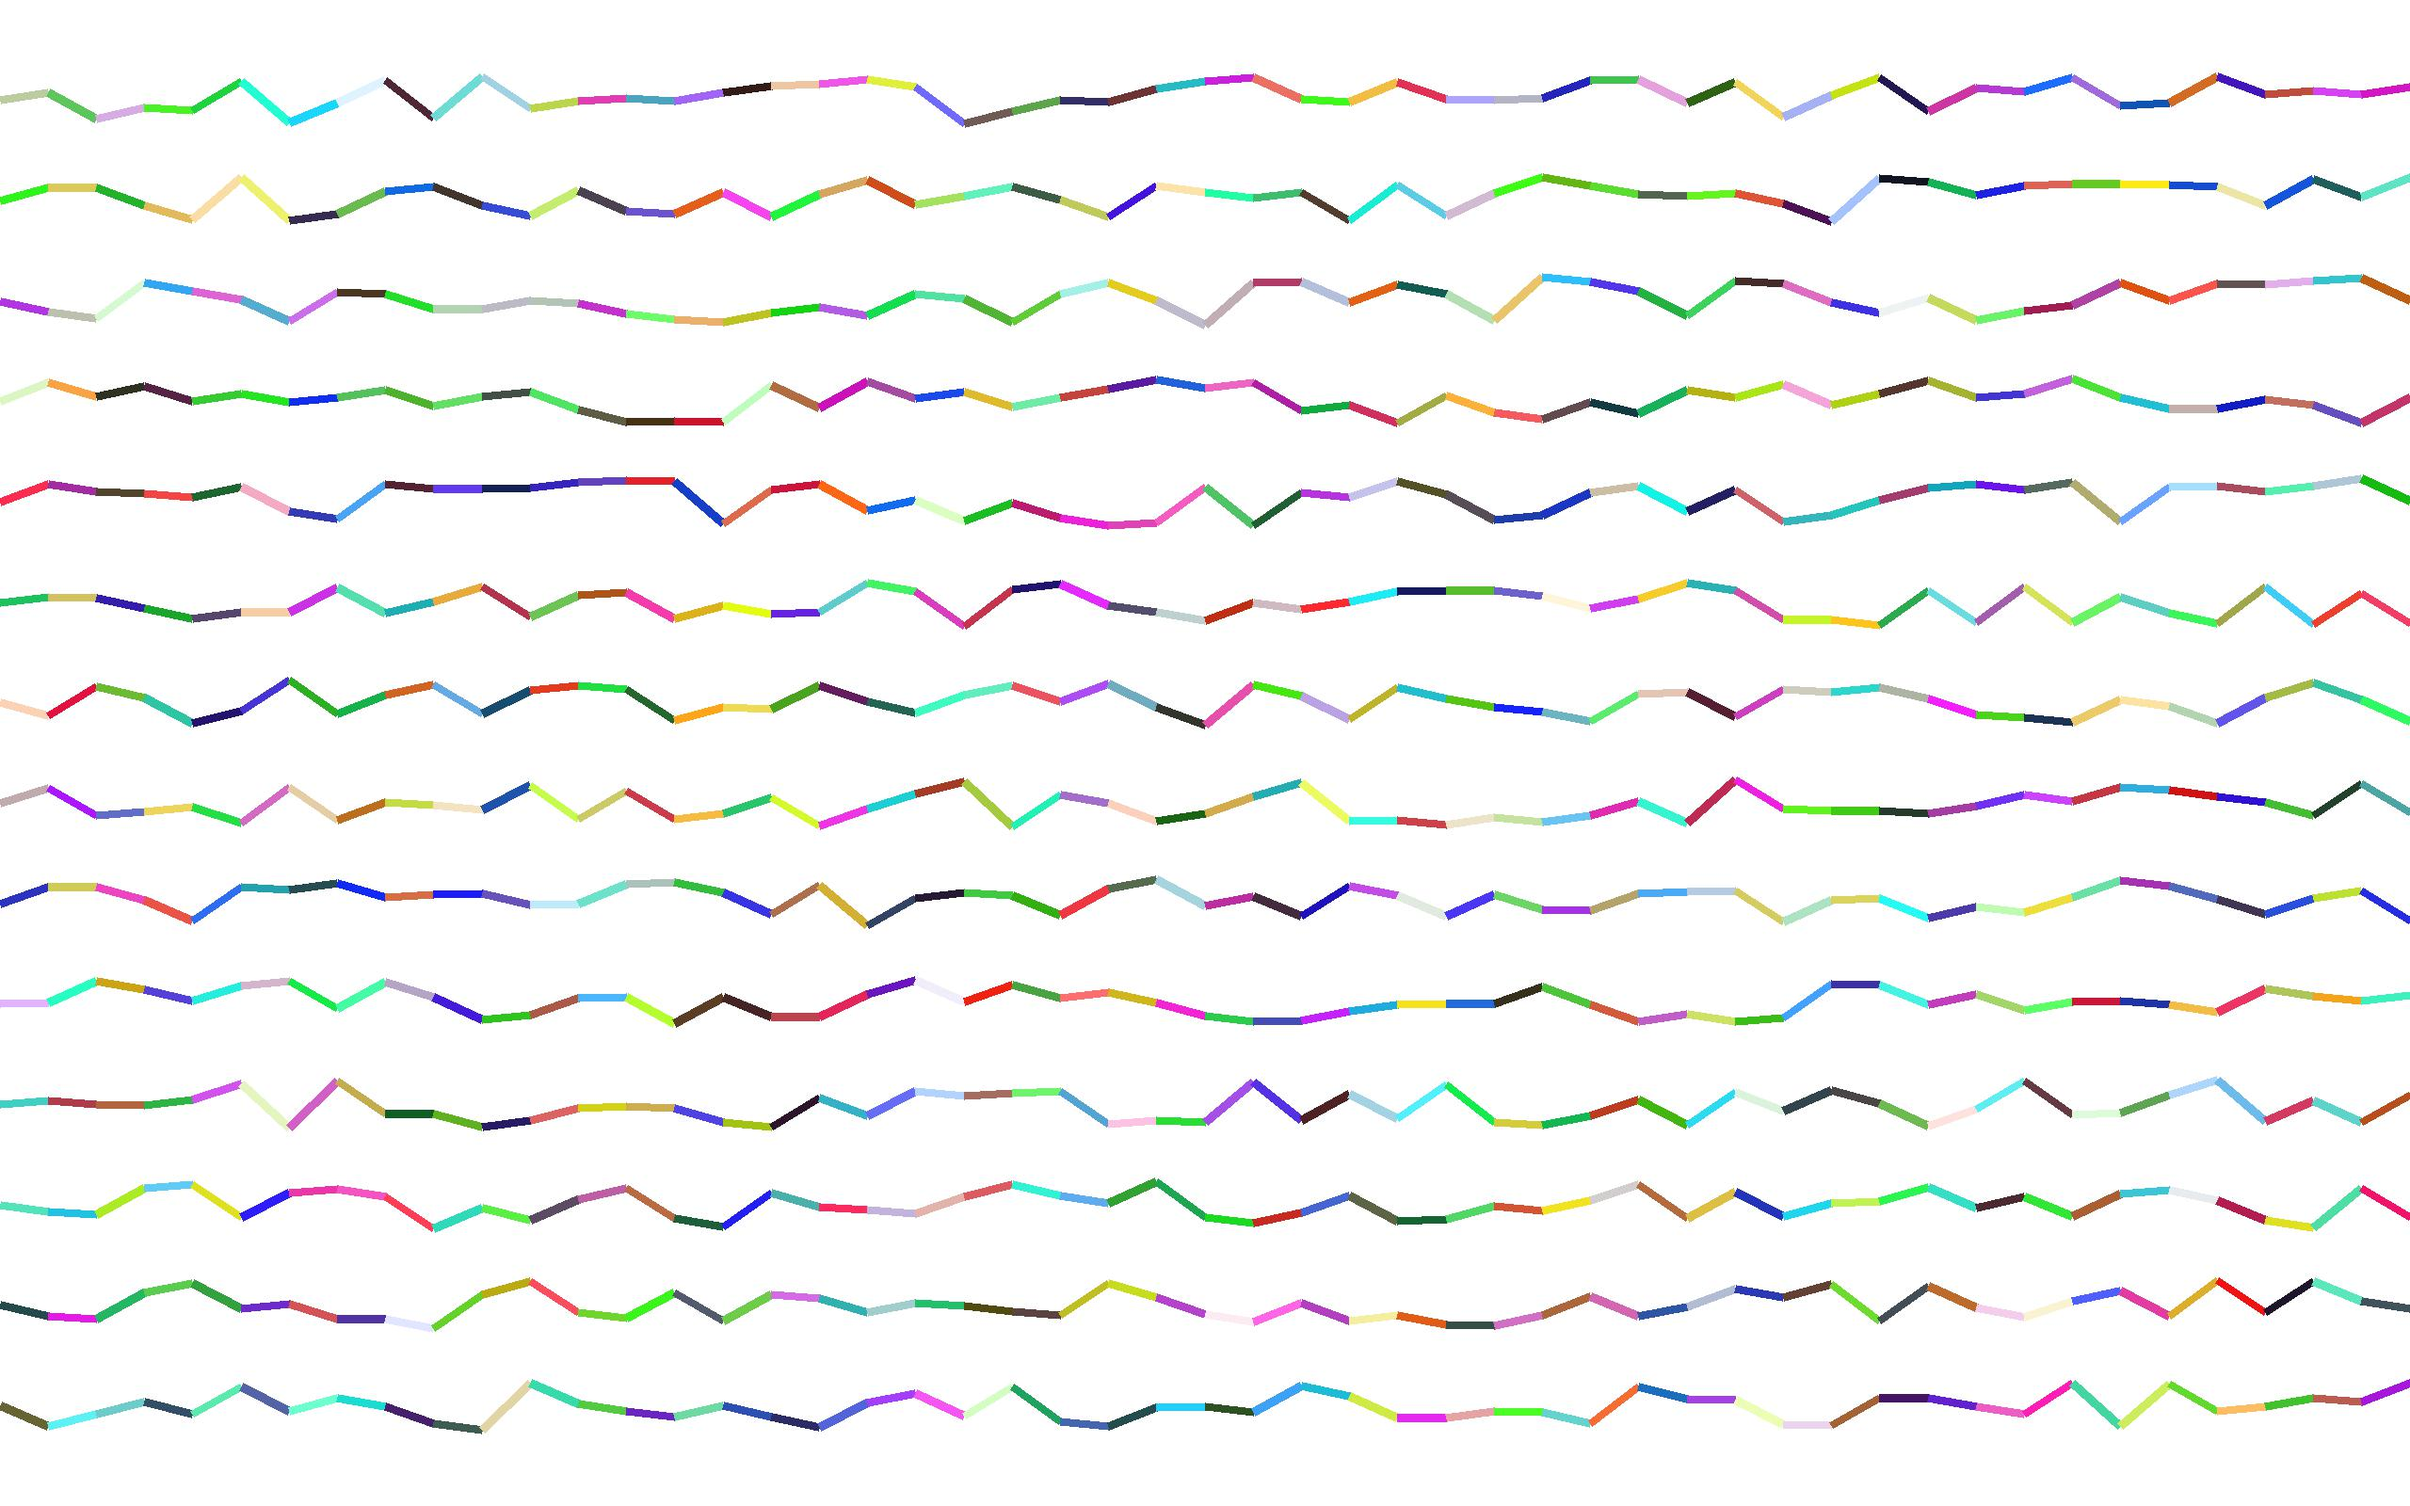
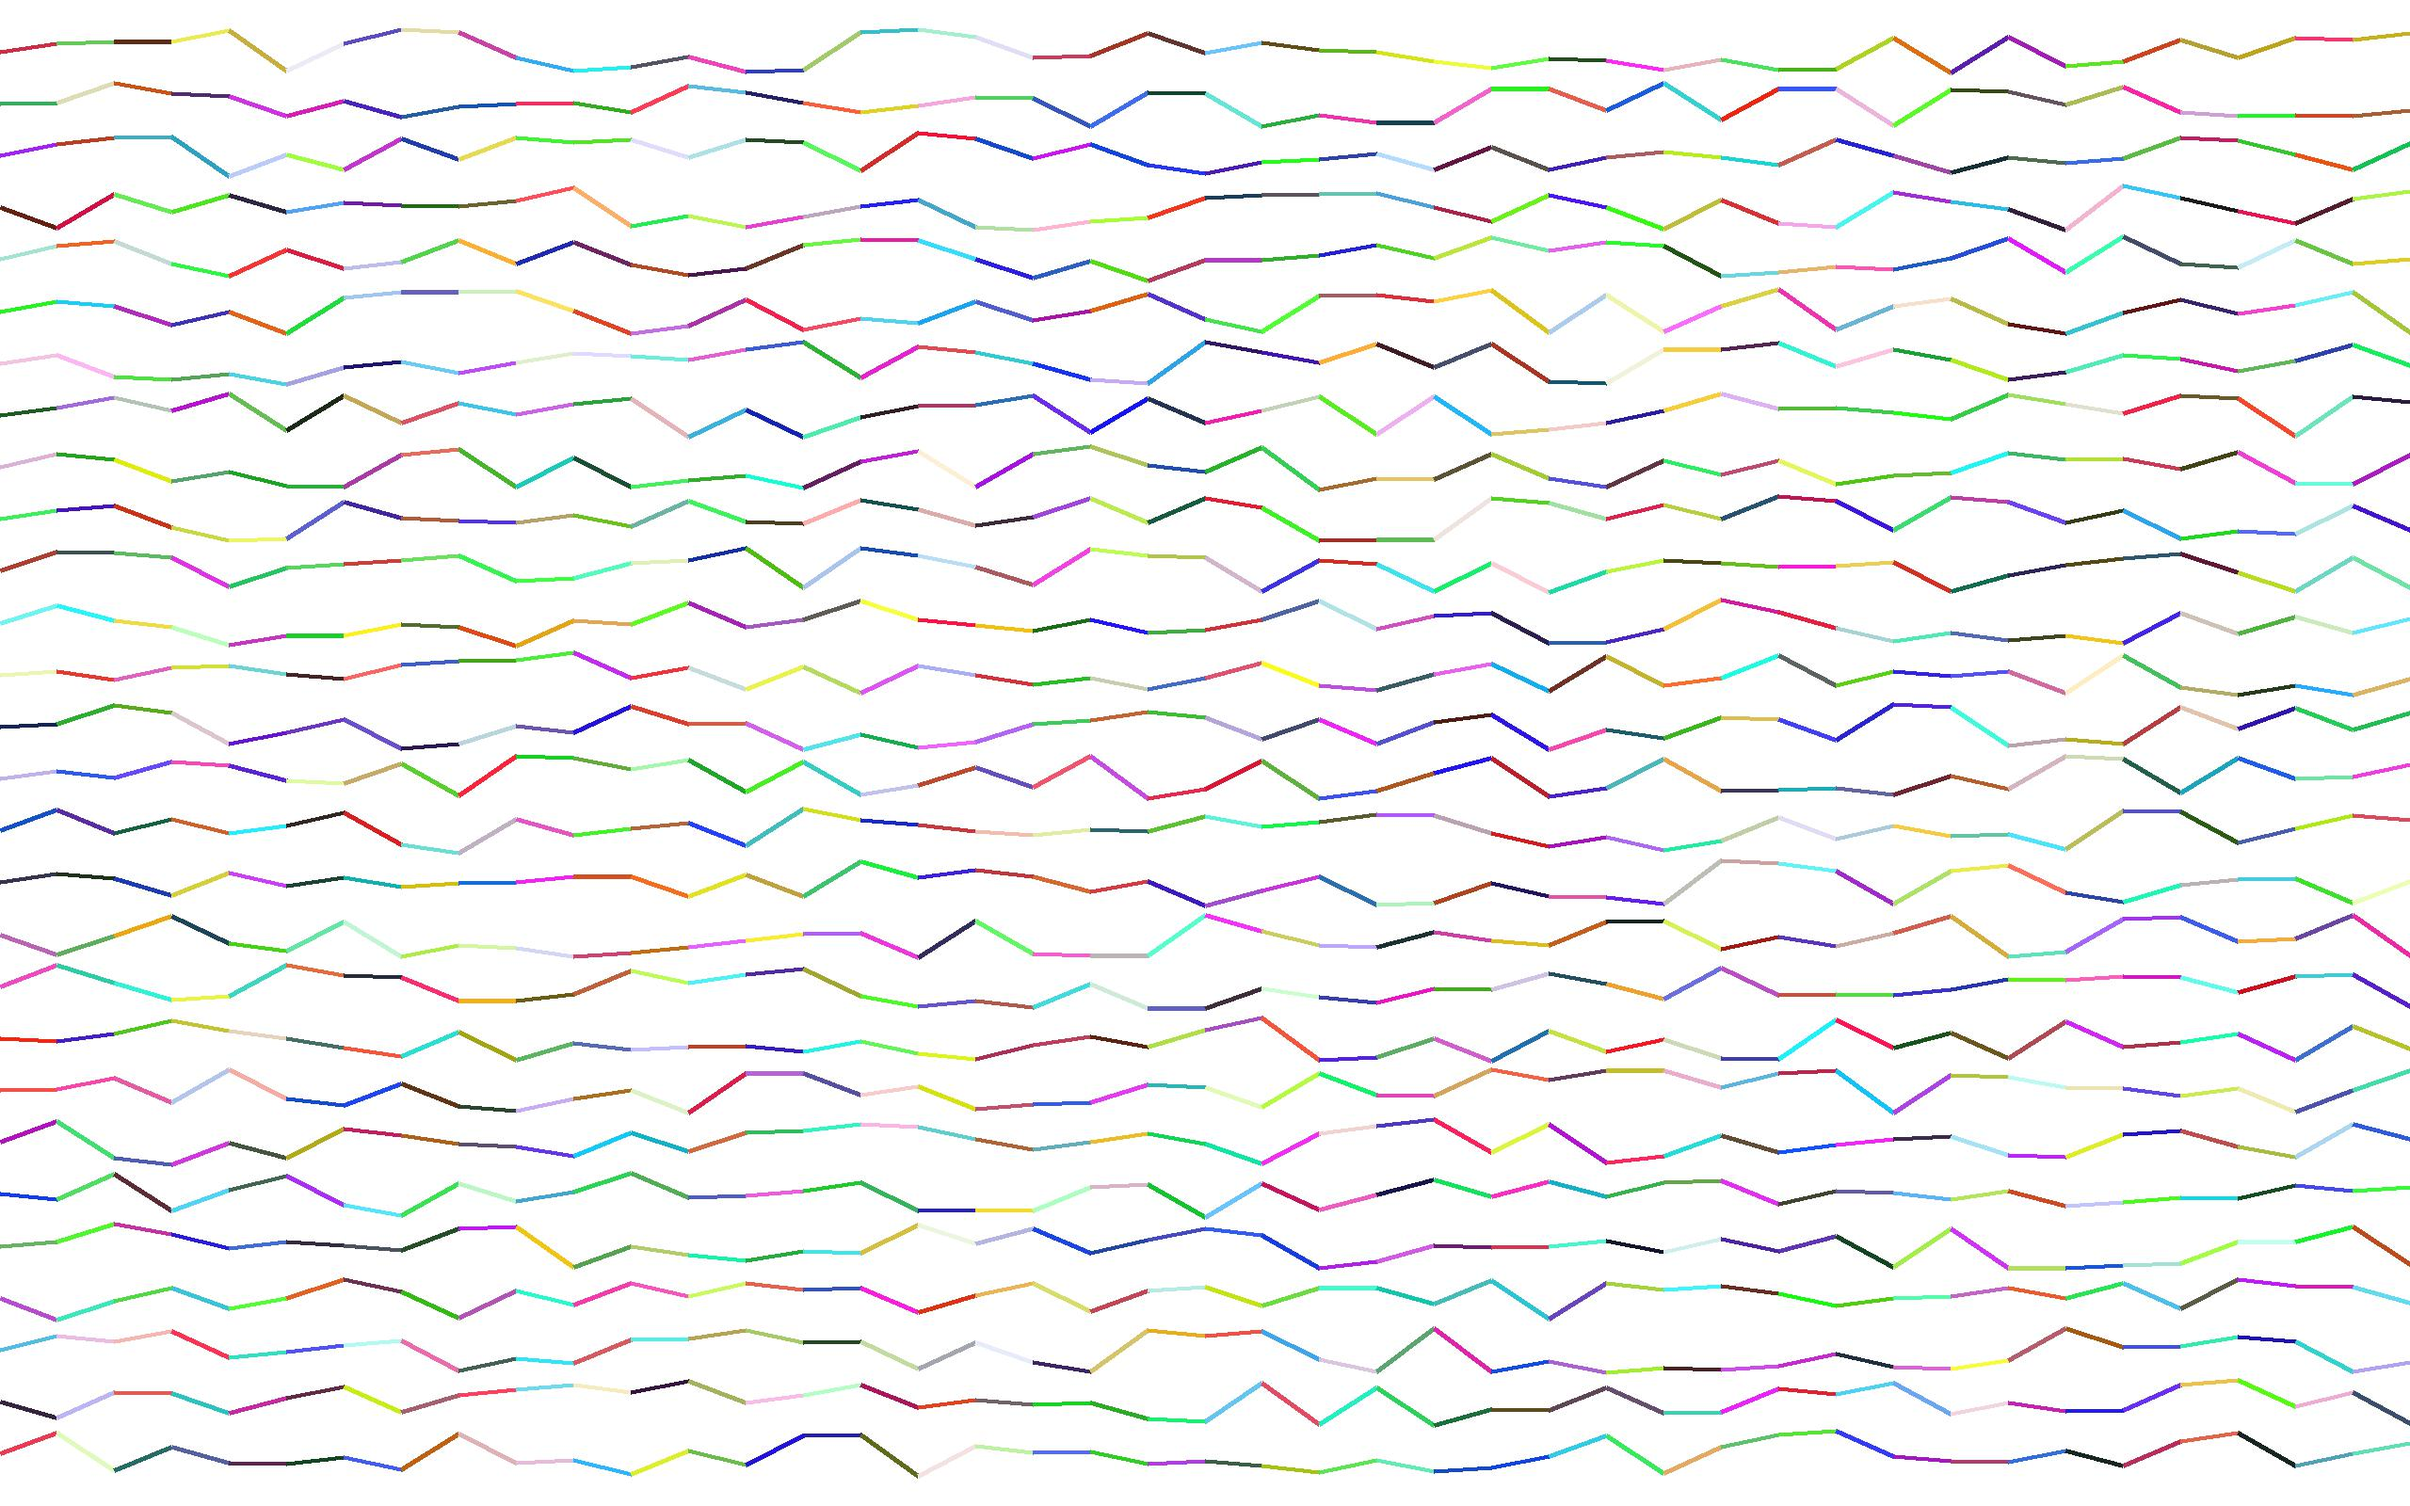
Added mountains

Changed region(s): [[0.0, 0.0, 1.0, 1.0], [0.0625, 0.0, 0.0938, 0.0312]]

diff --git a/mountains.py b/mountains.py
@@ -1,0 +1,47 @@
+from PIL import Image, ImageDraw, ImageFont, ImageFilter
+from colour import Color
+import random
+import sys
+
+if(len(sys.argv) < 3):
+    print(f"{sys.argv[0]} <width> <height> [<*color name/hex>]")
+    sys.exit(1)
+
+w, h = int(sys.argv[1]), int(sys.argv[2])
+im = Image.new("RGB", (w, h))
+draw = ImageDraw.Draw(im)
+full = [(0, 0), (w, h)]
+draw.rectangle(full, fill='#ffffff')
+
+numlines = random.randint(3, 12)
+numiter = random.randint(7, 20)
+maxdiv = random.randint(300,900)
+width = 10
+
+grad = [(1/numlines)*i for i in range(1, numlines)]
+
+if(len(sys.argv) > 3):
+    fill = Color(sys.argv[3])
+else:
+    fill = Color(pick_for=random.randrange(256))
+
+for i in range(1, numlines):
+    nh = h/numlines*(i)
+    pasth = nh
+    fill.luminance = grad[-i]
+    for j in range(numiter):
+        nw = w/numiter*(j)
+        linepath = [(), (), (), ()]
+        linepath = [(w, h), (w, 1000), (1000, 1000), (1000, h)]
+        currh = nh + (random.randint(-maxdiv, maxdiv)/10)
+
+        linepath[0] = (nw, h) #V
+        linepath[1] = (nw, pasth)
+        linepath[2] = ((w/numiter*(j+1)), currh)
+        linepath[3] = ((w/numiter*(j+1)), h)
+
+        pasth = currh
+        draw.polygon(linepath, fill=fill.hex)
+
+im.save("wallpapers/mountains.jpg")
+print("Image saved to wallpapers/mountains.jpg")

diff --git a/joydivision.py b/joydivision.py
@@ -14,10 +14,10 @@ full = [(0, 0), (w, h)]
 draw.rectangle(full, fill='#ffffff') #change backgroud color
 
 #set these to constant numbers if desired
-numlines = random.randint(1, 50)
-numiter = random.randint(1, 50)
-maxdiv = random.randint(1, 300)
-width = random.randint(5, 20)
+numlines = random.randint(5, 50)
+numiter = random.randint(5, 50)
+maxdiv = random.randint(100, 700)
+width = random.randint(5, 10)
 
 for i in range(1, numlines):
     nh = h/numlines*(i)

diff --git a/README.md b/README.md
@@ -45,3 +45,16 @@ Additional settings can be tweaked inside the script.
 ![example image](./wallpapers/unknownpleasures.jpg)
 
 The resulting wallpaper is saved at `wallpapers/unknownpleasures.jpg`.
+
+## mountains
+Create wallpapers with gradient mountains, inspired by Campo Santo's "Firewatch"
+
+### Usage
+`python mountains.py <width> <height> [<*color name/hex>]`
+
+Additional settings can also be tweaked inside the script.
+
+![example image](./wallpapers/mountains_black.jpg)
+
+The wallpaper is saved at `wallpapers/mountains_black.jpg`.
+
